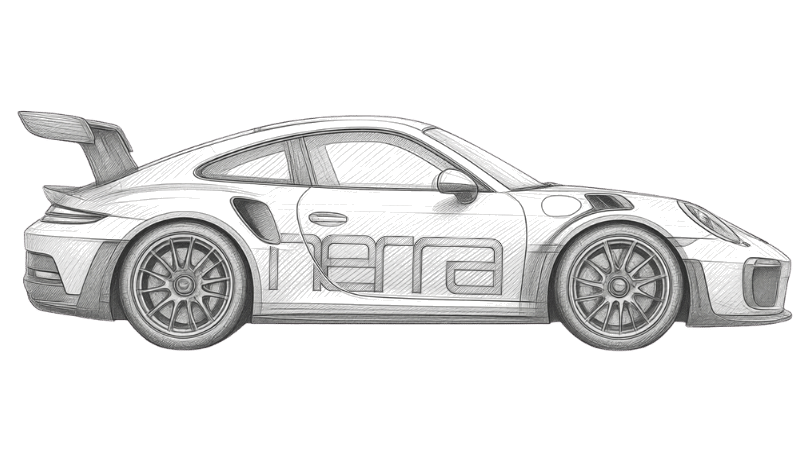
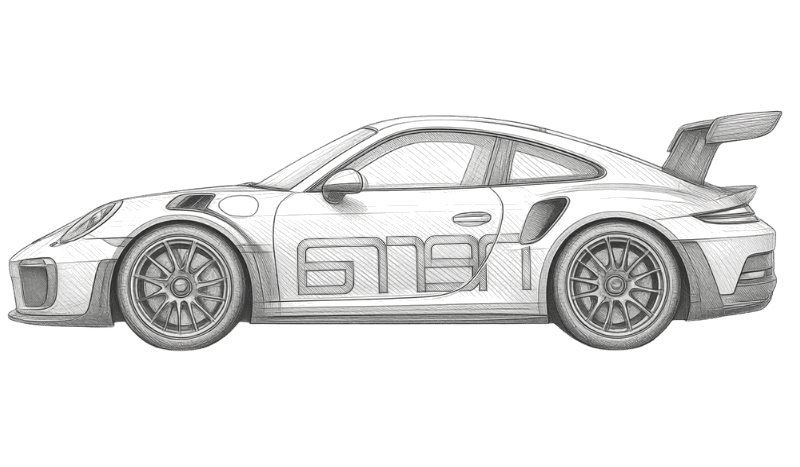
fix: vend Porsche-bilde i kildefil, fjern CSS-speilvending, 30% større

Changed region(s): [[0.0, 0.2398, 1.0, 0.7495]]

diff --git a/apps/hub/components/dashboard/porsche-tracker.tsx b/apps/hub/components/dashboard/porsche-tracker.tsx
@@ -61,8 +61,8 @@ export function PorscheTracker({ savedAmount }: PorscheTrackerProps) {
       <img
         src="/porsche.png"
         alt="Porsche 911 GT2 RS — Nerra"
-        className="h-12 w-auto opacity-60"
-        style={{ filter: 'grayscale(0.2)', transform: 'scaleX(-1)' }}
+        className="h-16 w-auto opacity-60"
+        style={{ filter: 'grayscale(0.2)' }}
       />
     </div>
   );
